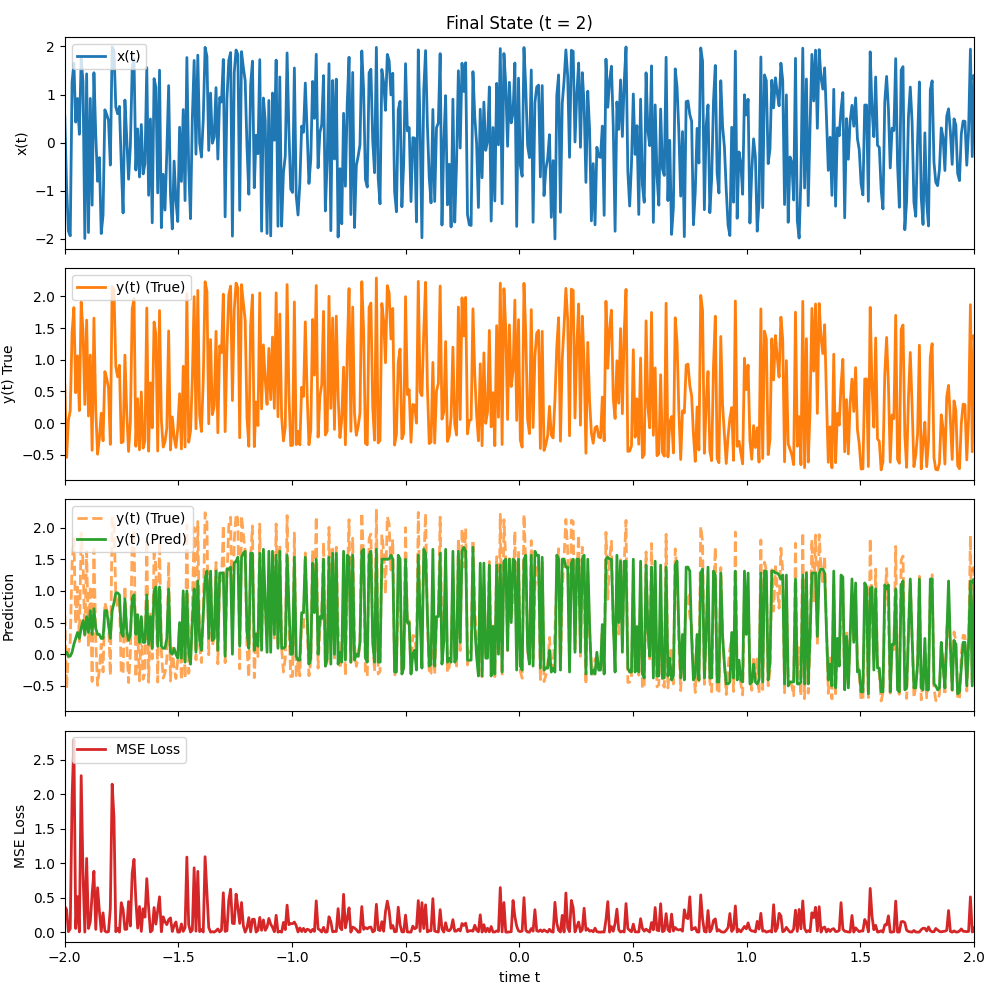
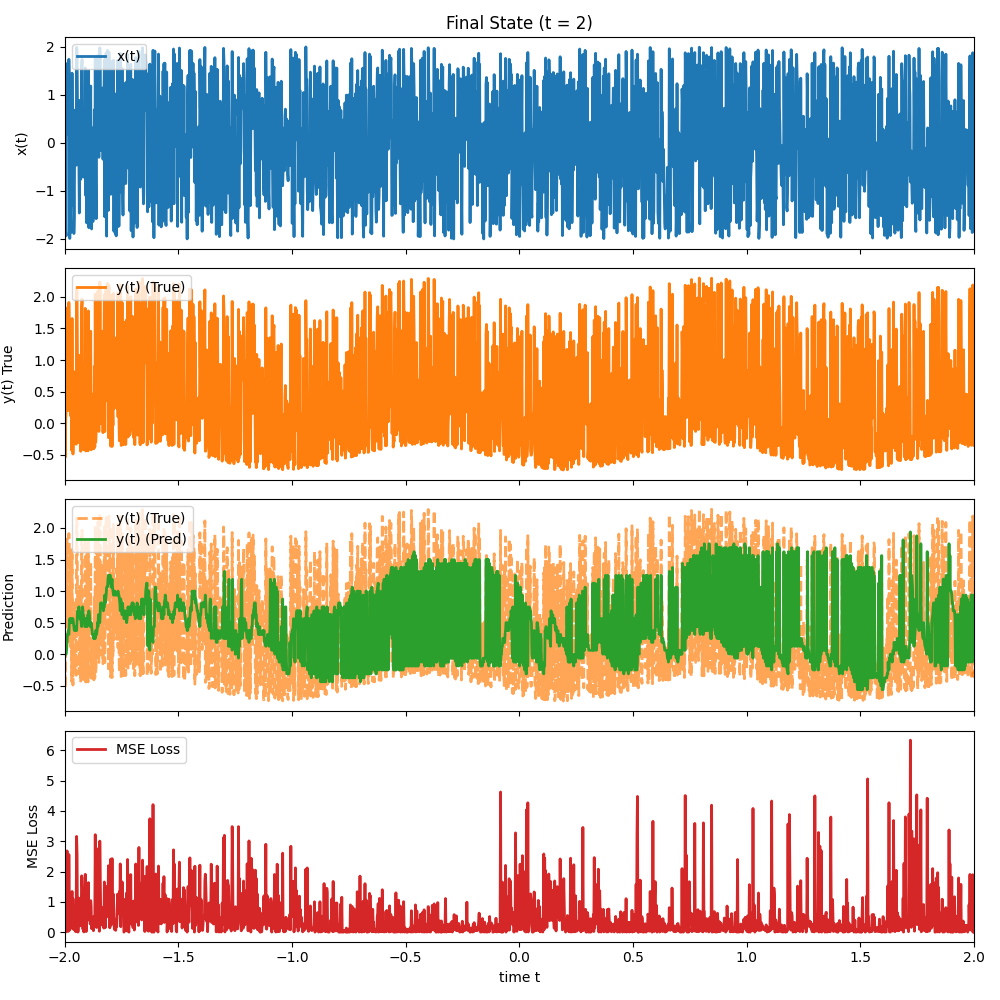
something run ...

diff --git a/src/eclair.py b/src/eclair.py
@@ -40,9 +40,9 @@ class EclairKAN:
         self.learning_rate = config['learning_rate']
 
         #Keep track of the inputs and outputs of the layers
-        self.layer_vars = ['input']
-        self.layer_vars.extend([f'layer{i}_out' for i in range(1,  len(self.layer_sizes) - 1)])
-        self.layer_vars.append('output')
+        self.layer_vars_forward = ['input']
+        self.layer_vars_forward.extend([f'layer{i}_out' for i in range(1,  len(self.layer_sizes) - 1)])
+        self.layer_vars_forward.append('output')
 
         #HLS API
         self.lib = None
@@ -216,7 +216,8 @@ class EclairKAN:
         basis_lookup = []
         accumulation = ["            o_sum +="]
 
-        weight_update_input_output = []
+        weight_update_input = []
+        downstream_grad = []
        
         for spline_i in range(0, self.spline_order + 1):
 
@@ -227,12 +228,14 @@ class EclairKAN:
             else: accumulation.append(f" L.Ws[o][i][k] * b{spline_i}") 
 
             #Backprop
-            weight_update_input_output.append(f"            L.Ws[o][i][k + {spline_i}] -= delta * LUT.B{spline_i}[u_index];\n")
+            weight_update_input.append(f"            L.Ws[o][i][k + {spline_i}] -= delta * LUT.B{spline_i}[u_index];\n")
+            downstream_grad.append(f"            gx += L.Ws[o][i][k + {spline_i}] * LUT.dB{spline_i}[u_index];\n")
 
         #Join them all into strings
         basis_lookup = "".join(basis_lookup)
         accumulation = "".join(accumulation) + ";"
-        weight_update_input_output = "".join(weight_update_input_output)
+        weight_update_input = "".join(weight_update_input)
+        downstream_grad = "".join(downstream_grad)
 
         insertions = {
             
@@ -241,7 +244,8 @@ class EclairKAN:
             "//spline-accumulation":accumulation,
 
             #Backprop
-            "//weight-update-input-output": weight_update_input_output
+            "//weight-update": weight_update_input,
+            "//calculate-downstream-grad": downstream_grad,
         }
 
         # write to file
@@ -261,13 +265,12 @@ class EclairKAN:
             in_dim = self.dim_defines[layer_i]
             out_dim = self.dim_defines[layer_i+1]
 
-            input_var = self.layer_vars[layer_i]
-            output_var = self.layer_vars[layer_i + 1]
+            input_var = self.layer_vars_forward[layer_i]
+            output_var = self.layer_vars_forward[layer_i + 1]
 
             if output_var != 'output': variable_definitions.append(f"    weight_t {output_var}[{out_dim}];\n") 
             forward_pass.append(f"    forward_layer<{in_dim}, {out_dim}>({input_var}, {output_var}, P.L{layer_i}, C.C{layer_i});\n")
 
-        variable_definitions = "".join(variable_definitions)
         forward_pass = "".join(forward_pass)
 
         #Writing the backward pass
@@ -275,11 +278,26 @@ class EclairKAN:
         if self.num_layers == 1: #There is only one layer that is connected to both the inputs and outputs
             in_dim = self.dim_defines[0]
             out_dim = self.dim_defines[1]
+            backward_pass.append(f"    backward_input<{in_dim}, {out_dim}, output_t>(P.L0, C.C0, feedback);\n")
 
-            backward_pass.append(f"    backward_input_output<{in_dim}, {out_dim}>(P.L0, C.C0, feedback);\n")
-        else:
-            raise ValueError("Only one layer is supported for now")
+        elif self.num_layers > 1:
+            for layer_i in reversed(range(self.num_layers)): #Looping from the output
+                in_dim =  self.dim_defines[layer_i]
+                out_dim = self.dim_defines[layer_i + 1]
 
+                #Define the downstream gradient to propagate
+                if layer_i > 0:
+                    variable_definitions.append(f"    weight_t dL_dx_{layer_i-1}[{in_dim}];\n")
+
+                #Define the backward function calls
+                if (layer_i != 0) & ((layer_i == self.num_layers-1)) : #Ouput layer
+                    backward_pass.append(f"    backward<{in_dim}, {out_dim}, output_t>(P.L{layer_i}, C.C{layer_i}, dL_dx_{self.num_layers-2}, feedback);\n")
+                elif layer_i == 0: #Input layer
+                    backward_pass.append(f"    backward_input<{in_dim}, {out_dim}, weight_t>(P.L{layer_i}, C.C{layer_i},  dL_dx_0);\n")
+                else: #Hideen layer
+                    backward_pass.append(f"    backward<{in_dim}, {out_dim}, weight_t>(P.L{layer_i}, C.C{layer_i},  dL_dx_{layer_i-1}, dL_dx_{layer_i});\n")
+
+        variable_definitions = "".join(variable_definitions)
         backward_pass = "".join(backward_pass)
 
         insertions = {

diff --git a/demos/function_tracking/eclair_model/firmware/components.h b/demos/function_tracking/eclair_model/firmware/components.h
@@ -71,15 +71,18 @@ inline void forward_layer(
 
 }
 
-template<int IN_DIM, int OUT_DIM>
-inline void backward_input_output( //Whhen the layer is connected to both the input and output of the model
+template<int IN_DIM, int OUT_DIM, typename up_grad_t>
+inline void backward_input( //When the layer is connected to the input
     LayerParams<IN_DIM, OUT_DIM> &L,
     const LayerContext<IN_DIM, OUT_DIM> &C, // Forward-pass context for this layer's input
-    const output_t dL_dy[OUT_DIM] // Upstream gradie
+    const up_grad_t dL_dy[OUT_DIM] // Upstream gradie
 ){
     for (int o = 0; o < OUT_DIM; o++) {
         #pragma HLS UNROLL
-        weight_t dL_dy_o = dL_dy[o]; // Get upstream grad for this output
+
+        // Get upstream grad for this output
+        weight_t dL_dy_o = dL_dy[o]; 
+        weight_t delta = LR * dL_dy_o;
 
         for (int i = 0; i < IN_DIM; i++){
             #pragma HLS UNROLL
@@ -87,9 +90,8 @@ inline void backward_input_output( //Whhen the layer is connected to both the in
             // Grads for Ws: dL/dWs = dL/dy * dy/dWs = dL/dy * B(x)
             int k = C.k[o][i];
             int u_index = C.u_index[o][i];
-            weight_t delta = LR * dL_dy_o;
-
-            //weight-update-input-output
+            
+            //weight-update
             L.Ws[o][i][k + 0] -= delta * LUT.B0[u_index];
             L.Ws[o][i][k + 1] -= delta * LUT.B1[u_index];
             L.Ws[o][i][k + 2] -= delta * LUT.B2[u_index];
@@ -99,31 +101,42 @@ inline void backward_input_output( //Whhen the layer is connected to both the in
 
 }
 
-// template<int IN_DIM, int OUT_DIM>
-// inline void backward_layer(
-//     LayerParams<IN_DIM, OUT_DIM> &L, // Layer Parameters to update
-//     weight_t dL_dx[IN_DIM], // Downstream gradient
-//     const LayerContext &C, // Forward-pass context for this layer's input
-//     const weight_t dL_dy[OUT_DIM], // Upstream gradient
-//     const weight_t lr // Learning rate
-// ){
+template<int IN_DIM, int OUT_DIM, typename up_grad_t>
+inline void backward( //When the layer is connected to only the output
+    LayerParams<IN_DIM, OUT_DIM> &L,
+    const LayerContext<IN_DIM, OUT_DIM> &C,
+    weight_t dL_dx[IN_DIM], // Downstream gradient
+    const up_grad_t dL_dy[OUT_DIM] //Upstream gradient
+){
+    for (int o = 0; o < OUT_DIM; o++) {
+        #pragma HLS UNROLL
 
-//     // Initialize downstream gradient
-//     for (int i = 0; i < IN_DIM; i++) {
-//         #pragma HLS UNROLL
-//         dL_dx[i] = 0;
-//     }
+        // Get upstream grad for this output
+        weight_t dL_dy_o = dL_dy[o];
+        weight_t delta = LR * dL_dy_o;
 
-//     for (int o = 0; o < OUT_DIM; o++) {
-//         #pragma HLS UNROLL
-//         weight_t dL_dy_o = dL_dy[o]; // Get upstream grad for this output
+        for (int i = 0; i < IN_DIM; i++){
+            #pragma HLS UNROLL
 
-//         for (int i = 0; i < IN_DIM; i++){
-//             #pragma HLS UNROLL
+            // Grads for Ws: dL/dWs = dL/dy * dy/dWs = dL/dy * B(x)
+            int k = C.k[o][i];
+            int u_index = C.u_index[o][i];
+            weight_t gx = 0; //for downstream calculcation
 
-//             //weight-update
-//         }
-//     }
+            //calculate-downstream-grad
+            gx += L.Ws[o][i][k + 0] * LUT.dB0[u_index];
+            gx += L.Ws[o][i][k + 1] * LUT.dB1[u_index];
+            gx += L.Ws[o][i][k + 2] * LUT.dB2[u_index];
+            gx += L.Ws[o][i][k + 3] * LUT.dB3[u_index];
 
-// }
+            dL_dx[i] = dL_dy_o * gx * INV_H;
+            
+            //weight-update
+            L.Ws[o][i][k + 0] -= delta * LUT.B0[u_index];
+            L.Ws[o][i][k + 1] -= delta * LUT.B1[u_index];
+            L.Ws[o][i][k + 2] -= delta * LUT.B2[u_index];
+            L.Ws[o][i][k + 3] -= delta * LUT.B3[u_index];
+        }
+    }
+}
 #endif

diff --git a/src/templates/components.h b/src/templates/components.h
@@ -67,15 +67,18 @@ inline void forward_layer(
 
 }
 
-template<int IN_DIM, int OUT_DIM>
-inline void backward_input_output( //Whhen the layer is connected to both the input and output of the model
+template<int IN_DIM, int OUT_DIM, typename up_grad_t>
+inline void backward_input( //When the layer is connected to the input
     LayerParams<IN_DIM, OUT_DIM> &L,
     const LayerContext<IN_DIM, OUT_DIM> &C, // Forward-pass context for this layer's input
-    const output_t dL_dy[OUT_DIM] // Upstream gradie
+    const up_grad_t dL_dy[OUT_DIM] // Upstream gradie
 ){
     for (int o = 0; o < OUT_DIM; o++) {
         #pragma HLS UNROLL
-        weight_t dL_dy_o = dL_dy[o]; // Get upstream grad for this output
+
+        // Get upstream grad for this output
+        weight_t dL_dy_o = dL_dy[o]; 
+        weight_t delta = LR * dL_dy_o;
 
         for (int i = 0; i < IN_DIM; i++){
             #pragma HLS UNROLL
@@ -83,39 +86,41 @@ inline void backward_input_output( //Whhen the layer is connected to both the in
             // Grads for Ws: dL/dWs = dL/dy * dy/dWs = dL/dy * B(x)
             int k = C.k[o][i];
             int u_index = C.u_index[o][i];
-            weight_t delta = LR * dL_dy_o;
-
-            //weight-update-input-output
+            
+            //weight-update
         }
     }
 
 }
 
-// template<int IN_DIM, int OUT_DIM>
-// inline void backward_layer(
-//     LayerParams<IN_DIM, OUT_DIM> &L, // Layer Parameters to update
-//     weight_t dL_dx[IN_DIM], // Downstream gradient
-//     const LayerContext &C, // Forward-pass context for this layer's input
-//     const weight_t dL_dy[OUT_DIM], // Upstream gradient
-//     const weight_t lr // Learning rate
-// ){
+template<int IN_DIM, int OUT_DIM, typename up_grad_t>
+inline void backward( //When the layer is connected to only the output
+    LayerParams<IN_DIM, OUT_DIM> &L,
+    const LayerContext<IN_DIM, OUT_DIM> &C,
+    weight_t dL_dx[IN_DIM], // Downstream gradient
+    const up_grad_t dL_dy[OUT_DIM] //Upstream gradient
+){
+    for (int o = 0; o < OUT_DIM; o++) {
+        #pragma HLS UNROLL
 
-//     // Initialize downstream gradient
-//     for (int i = 0; i < IN_DIM; i++) {
-//         #pragma HLS UNROLL
-//         dL_dx[i] = 0;
-//     }
+        // Get upstream grad for this output
+        weight_t dL_dy_o = dL_dy[o];
+        weight_t delta = LR * dL_dy_o;
 
-//     for (int o = 0; o < OUT_DIM; o++) {
-//         #pragma HLS UNROLL
-//         weight_t dL_dy_o = dL_dy[o]; // Get upstream grad for this output
+        for (int i = 0; i < IN_DIM; i++){
+            #pragma HLS UNROLL
 
-//         for (int i = 0; i < IN_DIM; i++){
-//             #pragma HLS UNROLL
+            // Grads for Ws: dL/dWs = dL/dy * dy/dWs = dL/dy * B(x)
+            int k = C.k[o][i];
+            int u_index = C.u_index[o][i];
+            weight_t gx = 0; //for downstream calculcation
 
-//             //weight-update
-//         }
-//     }
+            //calculate-downstream-grad
 
-// }
+            dL_dx[i] = dL_dy_o * gx * INV_H;
+            
+            //weight-update
+        }
+    }
+}
 #endif

diff --git a/demos/function_tracking/eclair_model/firmware/eclair.cpp b/demos/function_tracking/eclair_model/firmware/eclair.cpp
@@ -8,12 +8,20 @@ void eclair(const input_t input[INPUT_DIM], output_t output[OUTPUT_DIM], const o
     static Params P;
     static Context C;
 
-    //backward-pass
-    backward_input_output<INPUT_DIM, OUTPUT_DIM>(P.L0, C.C0, feedback);
-
     //variable-definitions
+    weight_t layer1_out[H1];
+    weight_t layer2_out[H2];
+    weight_t dL_dx_1[H2];
+    weight_t dL_dx_0[H1];
+
+    //backward-pass
+    backward<H2, OUTPUT_DIM, output_t>(P.L2, C.C2, dL_dx_1, feedback);
+    backward<H1, H2, weight_t>(P.L1, C.C1,  dL_dx_0, dL_dx_1);
+    backward_input<INPUT_DIM, H1, weight_t>(P.L0, C.C0,  dL_dx_0);
 
     //forward-pass
-    forward_layer<INPUT_DIM, OUTPUT_DIM>(input, output, P.L0, C.C0);
+    forward_layer<INPUT_DIM, H1>(input, layer1_out, P.L0, C.C0);
+    forward_layer<H1, H2>(layer1_out, layer2_out, P.L1, C.C1);
+    forward_layer<H2, OUTPUT_DIM>(layer2_out, output, P.L2, C.C2);
 
 }

diff --git a/demos/function_tracking/train.py b/demos/function_tracking/train.py
@@ -8,7 +8,7 @@ from matplotlib.colors import LinearSegmentedColormap, TwoSlopeNorm
 sys.path.append('../../src')
 from eclair import EclairKAN
 
-NUM_SAMPLES = 500
+NUM_SAMPLES = 2000
 
 #------------------------------- DATA GENERATION -----------------------------
 def f_t(x, t):
@@ -111,7 +111,7 @@ t_series, x_series, y_series = build_time_series(NUM_SAMPLES)
 #------------------------------- MODEL -----------------------------
 config = {
     #Model architecture
-    'layer_sizes': [2, 1],
+    'layer_sizes': [2, 2, 2, 1],
     'model_precision': 'ap_fixed<8, 3, AP_RND_CONV, AP_SAT>',
     'input_precision': 'ap_fixed<8, 3, AP_RND_CONV, AP_SAT>',
     'output_precision': 'ap_fixed<8, 3, AP_RND_CONV, AP_SAT>',

diff --git a/demos/function_tracking/eclair_model/firmware/parameters.h b/demos/function_tracking/eclair_model/firmware/parameters.h
@@ -42,12 +42,16 @@ struct LayerParams {
 
 //MODEL
 struct Params {
-    LayerParams<INPUT_DIM, OUTPUT_DIM> L0;
+    LayerParams<INPUT_DIM, H1> L0;
+    LayerParams<H1, H2> L1;
+    LayerParams<H2, OUTPUT_DIM> L2;
 };
 
 //CONTEXT
 struct Context {
-    LayerContext<INPUT_DIM, OUTPUT_DIM> C0;
+    LayerContext<INPUT_DIM, H1> C0;
+    LayerContext<H1, H2> C1;
+    LayerContext<H2, OUTPUT_DIM> C2;
 };
 
 #endif

diff --git a/src/templates/eclair.cpp b/src/templates/eclair.cpp
@@ -8,9 +8,9 @@ void eclair(const input_t input[INPUT_DIM], output_t output[OUTPUT_DIM], const o
     static Params P;
     static Context C;
 
-    //backward-pass
-
     //variable-definitions
+
+    //backward-pass
 
     //forward-pass
 

diff --git a/demos/function_tracking/eclair_model/firmware/defines.h b/demos/function_tracking/eclair_model/firmware/defines.h
@@ -5,6 +5,8 @@
 
 // MODEL ARCHITECTURE
 #define INPUT_DIM 2
+#define H1 2
+#define H2 2
 #define OUTPUT_DIM 1
 #define SPLINE_ORDER 3
 #define NUM_BASIS 4
